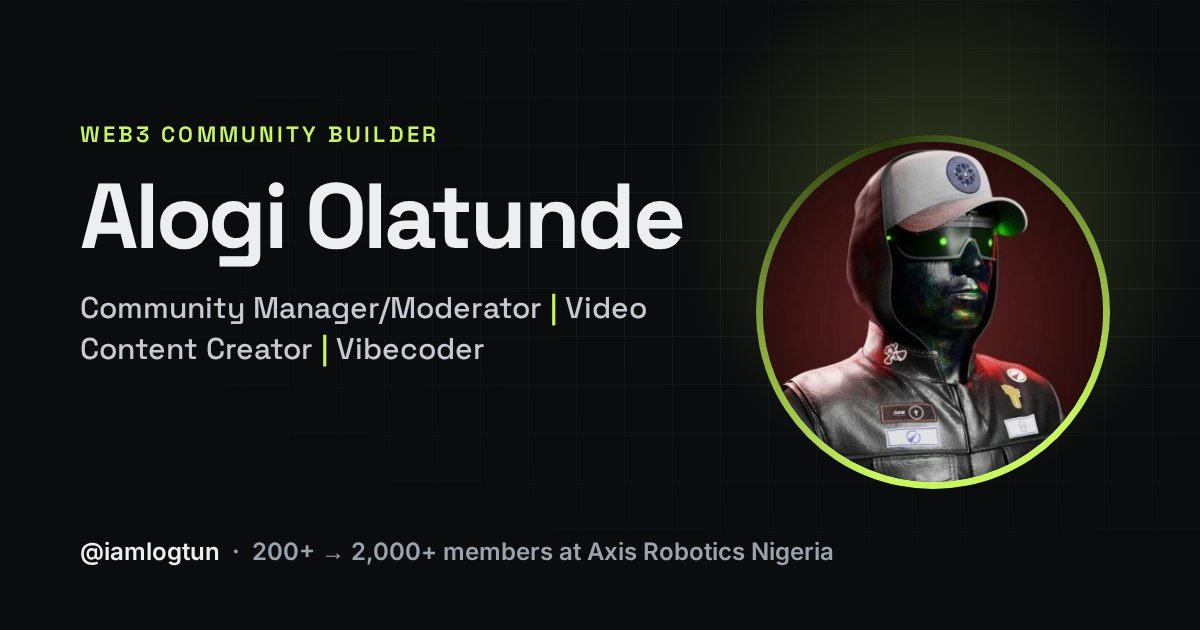
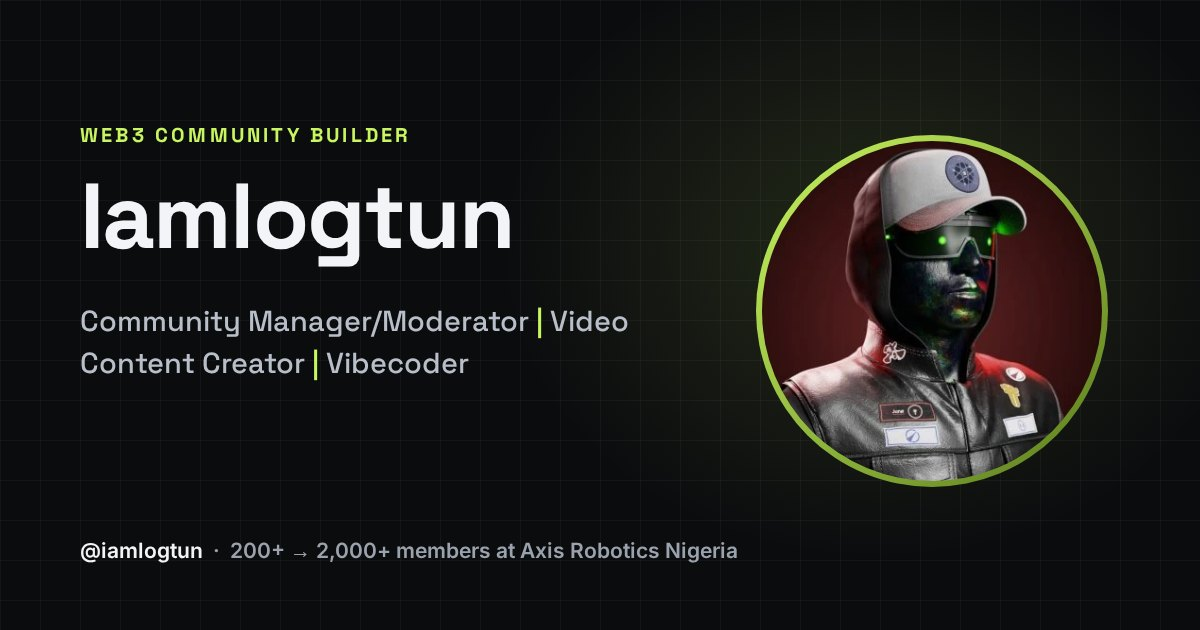
Rename to Iamlogtun, remove résumé download, five years, keep only vercel.app projects

diff --git a/index.html b/index.html
@@ -3,26 +3,26 @@
 <head>
 <meta charset="utf-8">
 <meta name="viewport" content="width=device-width, initial-scale=1">
-<title>Alogi Olatunde (@iamlogtun) · Community Manager, Video Creator, Vibecoder</title>
-<meta name="description" content="Alogi Olatunde (@iamlogtun): community manager and moderator with 4+ years in web3, video content creator and vibecoder. Led Axis Robotics Nigeria from 200+ to 2,000+ members.">
+<title>Iamlogtun (@iamlogtun) · Community Manager, Video Creator, Vibecoder</title>
+<meta name="description" content="Iamlogtun (@iamlogtun): community manager and moderator with 5+ years in web3, video content creator and vibecoder. Led Axis Robotics Nigeria from 200+ to 2,000+ members.">
 <meta name="theme-color" content="#0b0c0e">
-<link rel="canonical" href="https://logtun-portfolio.vercel.app/">
+<link rel="canonical" href="https://iamlogtun-portfolio.vercel.app/">
 <link rel="icon" href="favicon.svg" type="image/svg+xml">
 <link rel="apple-touch-icon" href="apple-touch-icon.png">
 <meta property="og:type" content="website">
-<meta property="og:url" content="https://logtun-portfolio.vercel.app/">
-<meta property="og:title" content="Alogi Olatunde · Community Manager/Moderator | Video Content Creator | Vibecoder">
-<meta property="og:description" content="Alogi Olatunde (@iamlogtun): community manager and moderator with 4+ years in web3, video content creator and vibecoder. Led Axis Robotics Nigeria from 200+ to 2,000+ members.">
-<meta property="og:image" content="https://logtun-portfolio.vercel.app/og.jpg">
+<meta property="og:url" content="https://iamlogtun-portfolio.vercel.app/">
+<meta property="og:title" content="Iamlogtun · Community Manager/Moderator | Video Content Creator | Vibecoder">
+<meta property="og:description" content="Iamlogtun (@iamlogtun): community manager and moderator with 5+ years in web3, video content creator and vibecoder. Led Axis Robotics Nigeria from 200+ to 2,000+ members.">
+<meta property="og:image" content="https://iamlogtun-portfolio.vercel.app/og.jpg">
 <meta property="og:image:width" content="1200">
 <meta property="og:image:height" content="630">
-<meta property="og:image:alt" content="Alogi Olatunde, Community Manager/Moderator, Video Content Creator, Vibecoder">
+<meta property="og:image:alt" content="Iamlogtun, Community Manager/Moderator, Video Content Creator, Vibecoder">
 <meta name="twitter:card" content="summary_large_image">
 <meta name="twitter:site" content="@iamlogtun">
 <meta name="twitter:creator" content="@iamlogtun">
-<meta name="twitter:title" content="Alogi Olatunde · Community Manager/Moderator | Video Content Creator | Vibecoder">
-<meta name="twitter:description" content="Alogi Olatunde (@iamlogtun): community manager and moderator with 4+ years in web3, video content creator and vibecoder. Led Axis Robotics Nigeria from 200+ to 2,000+ members.">
-<meta name="twitter:image" content="https://logtun-portfolio.vercel.app/og.jpg">
+<meta name="twitter:title" content="Iamlogtun · Community Manager/Moderator | Video Content Creator | Vibecoder">
+<meta name="twitter:description" content="Iamlogtun (@iamlogtun): community manager and moderator with 5+ years in web3, video content creator and vibecoder. Led Axis Robotics Nigeria from 200+ to 2,000+ members.">
+<meta name="twitter:image" content="https://iamlogtun-portfolio.vercel.app/og.jpg">
 <link rel="preload" href="fonts/SpaceGrotesk.woff2" as="font" type="font/woff2" crossorigin>
 <link rel="stylesheet" href="styles.css">
 <script>document.documentElement.classList.add("js")</script>
@@ -31,7 +31,7 @@
 <a class="skip" href="#main">Skip to content</a>
 <header class="nav" id="top">
   <div class="wrap navin">
-    <a class="brand" href="#top" aria-label="Alogi Olatunde, back to top"><span class="mono">AO</span><span>iamlogtun</span></a>
+    <a class="brand" href="#top" aria-label="Iamlogtun, back to top"><span class="mono">IL</span><span>iamlogtun</span></a>
     <nav aria-label="Sections">
       <a href="#impact">Impact</a><a href="#axis">Case study</a><a href="#experience">Experience</a><a href="#projects">Projects</a><a href="#contact">Contact</a>
     </nav>
@@ -42,17 +42,16 @@
   <div class="wrap herogrid">
     <div class="herotext">
       <p class="eyebrow"><span class="dot"></span>Web3 community builder · Nigeria</p>
-      <h1>Alogi Olatunde</h1>
+      <h1>Iamlogtun</h1>
       <p class="headline"><span>Community Manager/Moderator</span> <i>|</i> <span>Video Content Creator</span> <i>|</i> <span>Vibecoder</span></p>
-      <p class="pitch">Community manager with over four years in web3 community management, bringing strong creative and analytical skills. I turn members into active contributors, make video content that educates, and vibecode tools for the communities I&rsquo;m part of.</p>
+      <p class="pitch">Community manager with over five years in web3 community management, bringing strong creative and analytical skills. I turn members into active contributors, make video content that educates, and vibecode tools for the communities I&rsquo;m part of.</p>
       <div class="ctas">
         <a class="btn primary" href="#contact">Contact me</a>
         <a class="btn" href="#axis">View work</a>
-        <a class="btn ghost" href="Alogi_Olatunde_Resume.pdf" download>Download résumé <span aria-hidden="true">↓</span></a>
       </div>
     </div>
     <div class="portrait">
-      <div class="ring"><img src="img/alogi.webp" alt="Alogi Olatunde" width="360" height="360" fetchpriority="high"></div>
+      <div class="ring"><img src="img/alogi.webp" alt="Iamlogtun" width="360" height="360" fetchpriority="high"></div>
       <div class="chip c1"><b>2,000+</b> community members</div>
       <div class="chip c2"><b>31+</b> X Spaces hosted</div>
     </div>
@@ -99,7 +98,7 @@
 <section id="experience" class="sec">
   <div class="wrap">
     <p class="kicker">03 · Experience</p>
-    <h2>Four years of web3 communities</h2>
+    <h2>Five years of web3 communities</h2>
     <ol class="timeline"><li class="job reveal"><div class="jhead"><div><h3>Regional Lead / Moderator</h3><p class="co">Axis Robotics</p></div><span class="when">Mar 2026 – Oct 2026</span></div><ul><li>Took the initiative to coordinate weekly community activities that brought <b>5x growth</b> to the community.</li><li>Hosted onboarding sessions twice weekly to educate users about the Axis core product.</li><li>Contributed in part to Axis Nigeria’s user base growth from <b>3,000 to 15,000 users within 3 months</b>.</li><li>Hosted <b>10+</b> local community collabs with other web3 communities to onboard users to the Axis community.</li><li>Hosted a weekly X Space (every Friday) to share community updates, take feedback and network with the community.</li><li>Created and managed a community points system that tracked member participation and contributions, encouraging consistent participation.</li><li>Created the Axis Nigeria Community page on X and grew it from <b>0 to 600+</b> members within 5 months.</li><li>Created over <b>10</b> video guides and educational content pieces to onboard new users.</li></ul></li><li class="job reveal"><div class="jhead"><div><h3>Community Moderator / Ambassador</h3><p class="co">Puffer Finance</p></div><span class="when">Dec 2023 – Jun 2026</span></div><ul><li>Monitored community platforms for compliance with guidelines and terms of service.</li><li>Engaged with the community by responding to comments, questions and concerns in a timely and respectful manner.</li><li>Developed and implemented strategies to increase engagement and participation within the community.</li><li>Created video content to educate new and existing members about the protocol’s product suite.</li><li>Collaborated with other team members to ensure a cohesive community strategy.</li></ul></li><li class="job reveal"><div class="jhead"><div><h3>Community Moderator</h3><p class="co">Qubit Wallet</p></div><span class="when">Jul 2023 – Sep 2023</span></div><ul><li>Kept the community active and set the tone of engagement.</li><li>Built and maintained strong relationships with community members, enhancing the project’s reputation.</li></ul></li><li class="job reveal"><div class="jhead"><div><h3>Assistant Community Manager</h3><p class="co">Revel.xyz</p></div><span class="when">Jan 2023 – Jun 2024</span></div><ul><li>Created engaging, project-centred content to improve engagement in the community.</li><li>Communicated project updates and developments to the community.</li><li>Gathered community feedback and insights to inform project decision-making.</li></ul></li><li class="job reveal"><div class="jhead"><div><h3>Community Moderator</h3><p class="co">Teritori Network</p></div><span class="when">Sep 2022 – Dec 2024</span></div><ul><li>Monitored conversations and worked with co-contributors to manage inappropriate content.</li><li>Helped develop content strategies to engage members.</li></ul></li><li class="job reveal"><div class="jhead"><div><h3>Community Moderator</h3><p class="co">Metfx (Watch 2 Earn Protocol)</p></div><span class="when">Jan 2022 – May 2022</span></div><ul><li>Ideated and implemented community-focused campaigns and strategies.</li><li>Organized and managed events that promoted inclusiveness and a sense of belonging, significantly strengthening active participation in the community.</li></ul></li></ol>
   </div>
 </section>
@@ -109,7 +108,7 @@
     <p class="kicker">04 · Vibecoding</p>
     <h2>Tools I&rsquo;ve built for communities</h2>
     <p class="lede">Recent fan-made projects for the Catalyst and Lenium communities, designed, built and shipped as a vibecoder. None of them are official products of those projects.</p>
-    <div class="projs"><a class="proj reveal" href="https://catalyst-waitlist-card.vercel.app/" target="_blank" rel="noopener"><div class="pimg"><img src="img/projects/hype.webp" alt="Screenshot of Waitlist Hype Card" loading="lazy" decoding="async" width="720" height="450"></div><div class="pbody"><div class="pmeta"><span class="pill">Catalyst</span><span class="fan">Fan-made</span></div><h3>Waitlist Hype Card</h3><p>Make a personalised “I’m on the Catalyst waitlist” card and share it on X, unlocked with a Catalyst invite link.</p><span class="plink">catalyst-waitlist-card.vercel.app ↗</span></div></a><a class="proj reveal" href="https://catalyst-quiz-beta.vercel.app/" target="_blank" rel="noopener"><div class="pimg"><img src="img/projects/cquiz.webp" alt="Screenshot of Catalyst Quiz" loading="lazy" decoding="async" width="720" height="450"></div><div class="pbody"><div class="pmeta"><span class="pill">Catalyst</span><span class="fan">Fan-made</span></div><h3>Catalyst Quiz</h3><p>Ten quick questions about Catalyst, built only from what catalyst.app says, with a shareable score card.</p><span class="plink">catalyst-quiz-beta.vercel.app ↗</span></div></a><a class="proj reveal" href="https://catalyst-start.sites.tab.bot/" target="_blank" rel="noopener"><div class="pimg"><img src="img/projects/start.webp" alt="Screenshot of Catalyst: Start Here" loading="lazy" decoding="async" width="720" height="450"></div><div class="pbody"><div class="pmeta"><span class="pill">Catalyst</span><span class="fan">Fan-made</span></div><h3>Catalyst: Start Here</h3><p>A one-page onboarding hub for new users: what Catalyst is, how to join, features, FAQ, what’s new and official links.</p><span class="plink">catalyst-start.sites.tab.bot ↗</span></div></a><a class="proj reveal" href="https://catalyst-memes.sites.tab.bot/" target="_blank" rel="noopener"><div class="pimg"><img src="img/projects/memes.webp" alt="Screenshot of Meme &amp; Sticker Maker" loading="lazy" decoding="async" width="720" height="450"></div><div class="pbody"><div class="pmeta"><span class="pill">Catalyst</span><span class="fan">Fan-made</span></div><h3>Meme & Sticker Maker</h3><p>Original Catalyst meme templates plus WhatsApp and Discord sticker exports, all on-device.</p><span class="plink">catalyst-memes.sites.tab.bot ↗</span></div></a><a class="proj reveal" href="https://catalyst-contributor.sites.tab.bot/" target="_blank" rel="noopener"><div class="pimg"><img src="img/projects/contrib.webp" alt="Screenshot of Contributor Rank" loading="lazy" decoding="async" width="720" height="450"></div><div class="pbody"><div class="pmeta"><span class="pill">Catalyst</span><span class="fan">Fan-made</span></div><h3>Contributor Rank</h3><p>Enter your X and Discord usernames to get a community rank, from Lurker to Catalyst Legend, and a card to share.</p><span class="plink">catalyst-contributor.sites.tab.bot ↗</span></div></a><a class="proj reveal" href="https://lenium-tools.sites.tab.bot/" target="_blank" rel="noopener"><div class="pimg"><img src="img/projects/ltools.webp" alt="Screenshot of Lenium Trader Toolkit" loading="lazy" decoding="async" width="720" height="450"></div><div class="pbody"><div class="pmeta"><span class="pill">Lenium</span><span class="fan">Fan-made</span></div><h3>Lenium Trader Toolkit</h3><p>A payout calculator for YES/NO contracts and an evaluation tracker for the profit target, floor and 30-day window.</p><span class="plink">lenium-tools.sites.tab.bot ↗</span></div></a><a class="proj reveal" href="https://lenium-quiz.vercel.app/" target="_blank" rel="noopener"><div class="pimg"><img src="img/projects/lquiz.webp" alt="Screenshot of Lenium Quiz" loading="lazy" decoding="async" width="720" height="450"></div><div class="pbody"><div class="pmeta"><span class="pill">Lenium</span><span class="fan">Fan-made</span></div><h3>Lenium Quiz</h3><p>12 questions on how Lenium, the prediction-market prop firm, works: the evaluation rules, the limits and the payouts.</p><span class="plink">lenium-quiz.vercel.app ↗</span></div></a><a class="proj reveal" href="https://lenium-prediction.sites.tab.bot/" target="_blank" rel="noopener"><div class="pimg"><img src="img/projects/lpred.webp" alt="Screenshot of Lenium Prediction Card" loading="lazy" decoding="async" width="720" height="450"></div><div class="pbody"><div class="pmeta"><span class="pill">Lenium</span><span class="fan">Fan-made</span></div><h3>Lenium Prediction Card</h3><p>Pick a market, ask the question, call YES or NO with your confidence, and share the card.</p><span class="plink">lenium-prediction.sites.tab.bot ↗</span></div></a><a class="proj reveal" href="https://lenium-checker.sites.tab.bot/" target="_blank" rel="noopener"><div class="pimg"><img src="img/projects/lcheck.webp" alt="Screenshot of “Is my trade allowed?”" loading="lazy" decoding="async" width="720" height="450"></div><div class="pbody"><div class="pmeta"><span class="pill">Lenium</span><span class="fan">Fan-made</span></div><h3>“Is my trade allowed?”</h3><p>Check a Lenium evaluation trade against the price band, position and exposure caps, consistency rule and fee before placing it.</p><span class="plink">lenium-checker.sites.tab.bot ↗</span></div></a></div>
+    <div class="projs"><a class="proj reveal" href="https://catalyst-waitlist-card.vercel.app/" target="_blank" rel="noopener"><div class="pimg"><img src="img/projects/hype.webp" alt="Screenshot of Waitlist Hype Card" loading="lazy" decoding="async" width="720" height="450"></div><div class="pbody"><div class="pmeta"><span class="pill">Catalyst</span><span class="fan">Fan-made</span></div><h3>Waitlist Hype Card</h3><p>Make a personalised “I’m on the Catalyst waitlist” card and share it on X, unlocked with a Catalyst invite link.</p><span class="plink">catalyst-waitlist-card.vercel.app ↗</span></div></a><a class="proj reveal" href="https://catalyst-quiz-beta.vercel.app/" target="_blank" rel="noopener"><div class="pimg"><img src="img/projects/cquiz.webp" alt="Screenshot of Catalyst Quiz" loading="lazy" decoding="async" width="720" height="450"></div><div class="pbody"><div class="pmeta"><span class="pill">Catalyst</span><span class="fan">Fan-made</span></div><h3>Catalyst Quiz</h3><p>Ten quick questions about Catalyst, built only from what catalyst.app says, with a shareable score card.</p><span class="plink">catalyst-quiz-beta.vercel.app ↗</span></div></a><a class="proj reveal" href="https://lenium-quiz.vercel.app/" target="_blank" rel="noopener"><div class="pimg"><img src="img/projects/lquiz.webp" alt="Screenshot of Lenium Quiz" loading="lazy" decoding="async" width="720" height="450"></div><div class="pbody"><div class="pmeta"><span class="pill">Lenium</span><span class="fan">Fan-made</span></div><h3>Lenium Quiz</h3><p>12 questions on how Lenium, the prediction-market prop firm, works: the evaluation rules, the limits and the payouts.</p><span class="plink">lenium-quiz.vercel.app ↗</span></div></a></div>
     <a class="gh reveal" href="https://github.com/Logtun" target="_blank" rel="noopener"><svg viewBox="0 0 24 24" width="22" height="22" aria-hidden="true"><path fill="currentColor" d="M12 .5a12 12 0 0 0-3.8 23.4c.6.1.8-.3.8-.6v-2c-3.3.7-4-1.6-4-1.6-.6-1.4-1.4-1.8-1.4-1.8-1.1-.7.1-.7.1-.7 1.2.1 1.8 1.2 1.8 1.2 1.1 1.8 2.8 1.3 3.5 1 .1-.8.4-1.3.8-1.6-2.7-.3-5.5-1.3-5.5-5.9 0-1.3.5-2.4 1.2-3.2-.1-.3-.5-1.5.1-3.2 0 0 1-.3 3.3 1.2a11.5 11.5 0 0 1 6 0C17.3 4.7 18.3 5 18.3 5c.7 1.7.2 2.9.1 3.2.8.8 1.2 1.9 1.2 3.2 0 4.6-2.8 5.6-5.5 5.9.4.4.8 1.1.8 2.2v3.3c0 .3.2.7.8.6A12 12 0 0 0 12 .5Z"/></svg><span>See the code on GitHub · <b>github.com/Logtun</b></span><span aria-hidden="true">↗</span></a>
   </div>
 </section>
@@ -145,11 +144,10 @@
       <a class="cl reveal" href="https://t.me/iamlogtun" target="_blank" rel="noopener"><span>Telegram</span><b>t.me/iamlogtun</b></a>
       <a class="cl reveal" href="https://github.com/Logtun" target="_blank" rel="noopener"><span>GitHub</span><b>github.com/Logtun</b></a>
     </div>
-    <a class="btn primary big" href="Alogi_Olatunde_Resume.pdf" download>Download my résumé (PDF) <span aria-hidden="true">↓</span></a>
   </div>
 </section>
 </main>
-<footer class="foot"><div class="wrap"><span>© 2026 Alogi Olatunde · @iamlogtun</span><a href="#top">Back to top ↑</a></div></footer>
+<footer class="foot"><div class="wrap"><span>© 2026 Iamlogtun · @iamlogtun</span><a href="#top">Back to top ↑</a></div></footer>
 <script src="app.js" defer></script>
 </body>
 </html>

diff --git a/styles.css b/styles.css
@@ -97,7 +97,7 @@ h2 .muted{color:var(--mu);font-weight:500}
 .job li{margin:5px 0}
 .job li b{color:var(--tx)}
 .projs{display:grid;gap:16px;margin-top:32px}
-@media(min-width:640px){.projs{grid-template-columns:1fr 1fr}}
+@media(min-width:720px){.projs{grid-template-columns:repeat(3,1fr)}}
 @media(min-width:1000px){.projs{grid-template-columns:repeat(3,1fr)}}
 .proj{display:flex;flex-direction:column;text-decoration:none;background:var(--card);border:1px solid var(--line);border-radius:var(--r);overflow:hidden;transition:transform .25s,border-color .25s;min-width:0}
 .proj:hover{transform:translateY(-4px);border-color:#3f4a2c}

diff --git a/README.md b/README.md
@@ -1,15 +1,14 @@
-# Alogi Olatunde · Portfolio
+# Iamlogtun · Portfolio
 
-Personal portfolio of **Alogi Olatunde** ([@iamlogtun](https://x.com/iamlogtun)): Community Manager/Moderator | Video Content Creator | Vibecoder.
+Personal portfolio of **Iamlogtun** ([@iamlogtun](https://x.com/iamlogtun)): Community Manager/Moderator | Video Content Creator | Vibecoder.
 
 One static page (plain HTML, CSS and a little JS). No build step, no backend, no trackers.
 
-- Live copy: https://iamlogtun.sites.tab.bot/
-- Expected Vercel URL: https://logtun-portfolio.vercel.app/
+- Live: https://iamlogtun-portfolio.vercel.app/
 
 ## Sections
 
-Hero · Impact at a glance · Featured case study: Axis Robotics Nigeria, Regional Lead (Mar–Oct 2026) · Experience · Vibecoding projects (fan-made) · Content & education · Skills · Contact (plus résumé download).
+Hero · Impact at a glance · Featured case study: Axis Robotics Nigeria, Regional Lead (Mar–Oct 2026) · Experience · Vibecoding projects (fan-made) · Content & education · Skills · Contact.
 
 ## Deploy on Vercel
 
@@ -18,9 +17,8 @@ Hero · Impact at a glance · Featured case study: Axis Robotics Nigeria, Region
 3. Find **portfolio** in the GitHub list and click **Import**.
 4. Leave every setting as it is (Framework Preset: Other, no build command) and click **Deploy**.
 
-The social preview tags (`og:url`, `og:image`, `twitter:image`, `canonical`) in `index.html` point to `https://logtun-portfolio.vercel.app/`. If Vercel gives the project a different address, replace that URL in `index.html` (search for `logtun-portfolio.vercel.app`) and commit; Vercel redeploys on every push.
+The social preview tags (`og:url`, `og:image`, `twitter:image`, `canonical`) in `index.html` point to `https://iamlogtun-portfolio.vercel.app/`. If the project's address changes, replace that URL in `index.html` (search for `iamlogtun-portfolio.vercel.app`) and commit; Vercel redeploys on every push.
 
 ## Updating
 
-- Résumé: replace `Alogi_Olatunde_Resume.pdf`.
 - Images: `img/` (evidence screenshots from the Axis impact report) and `img/projects/` (project thumbnails).
